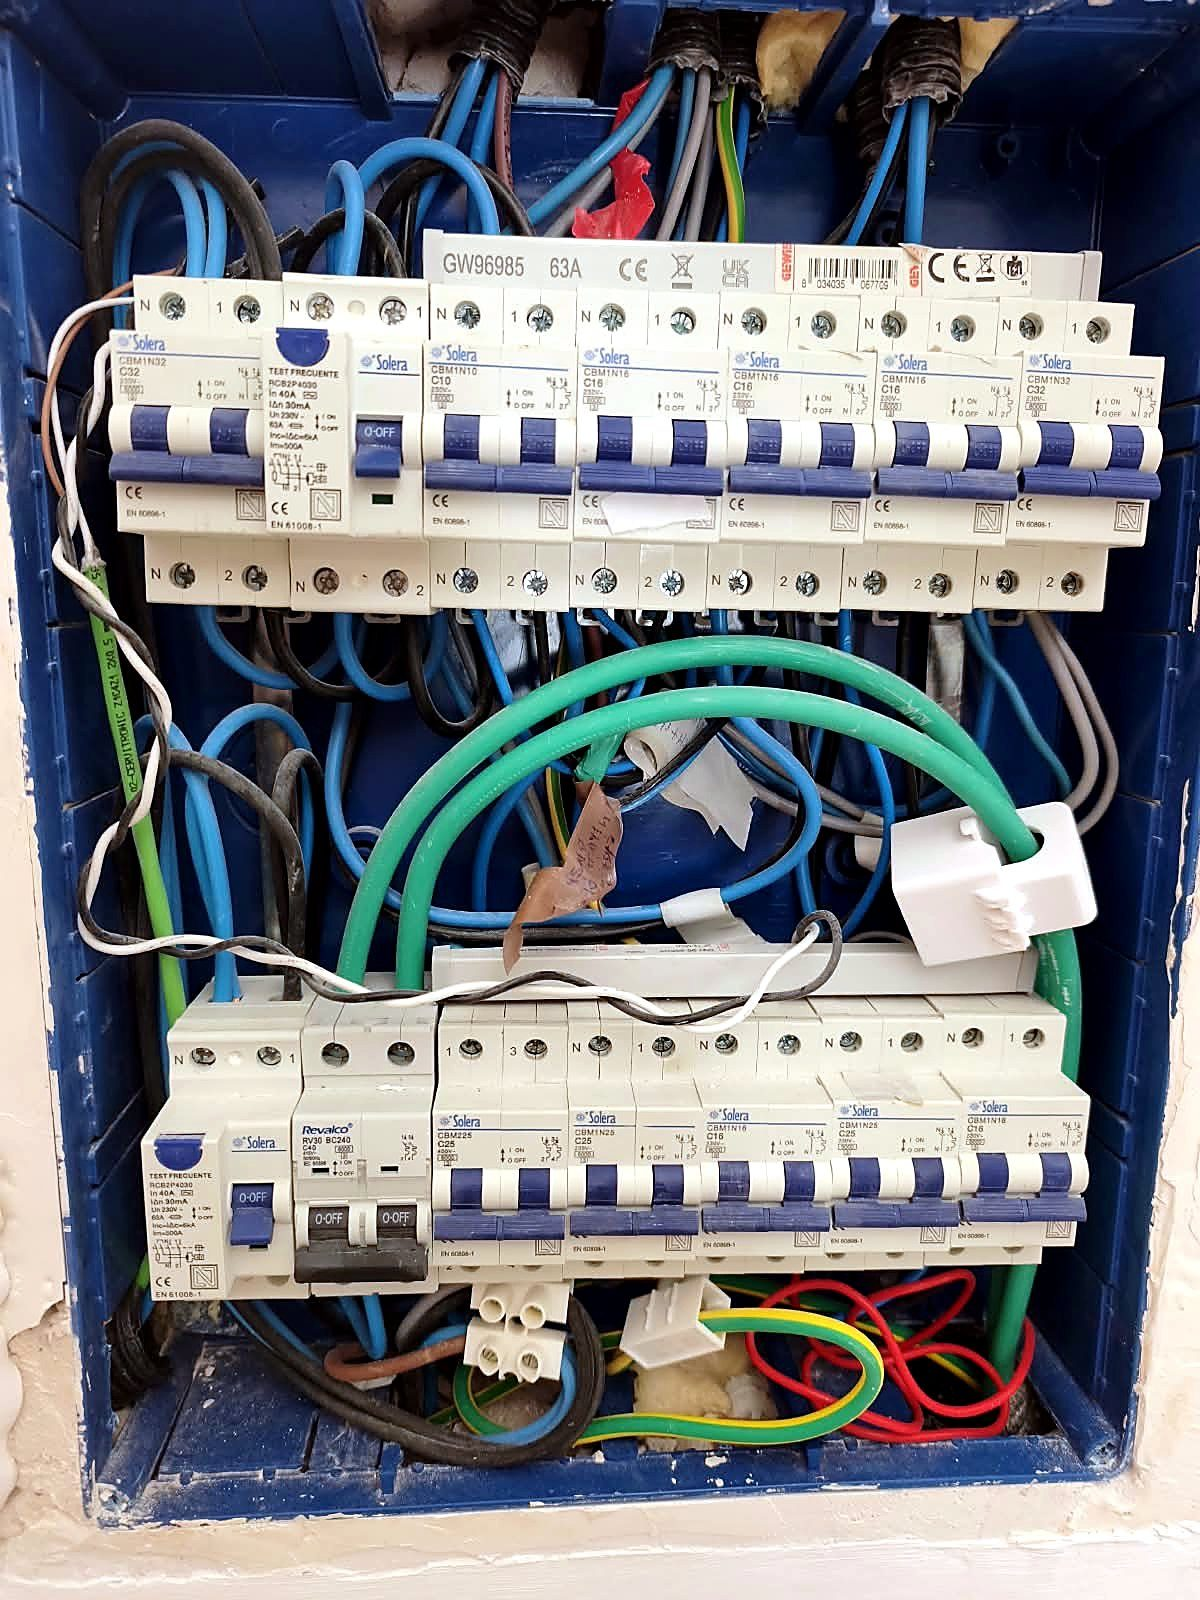
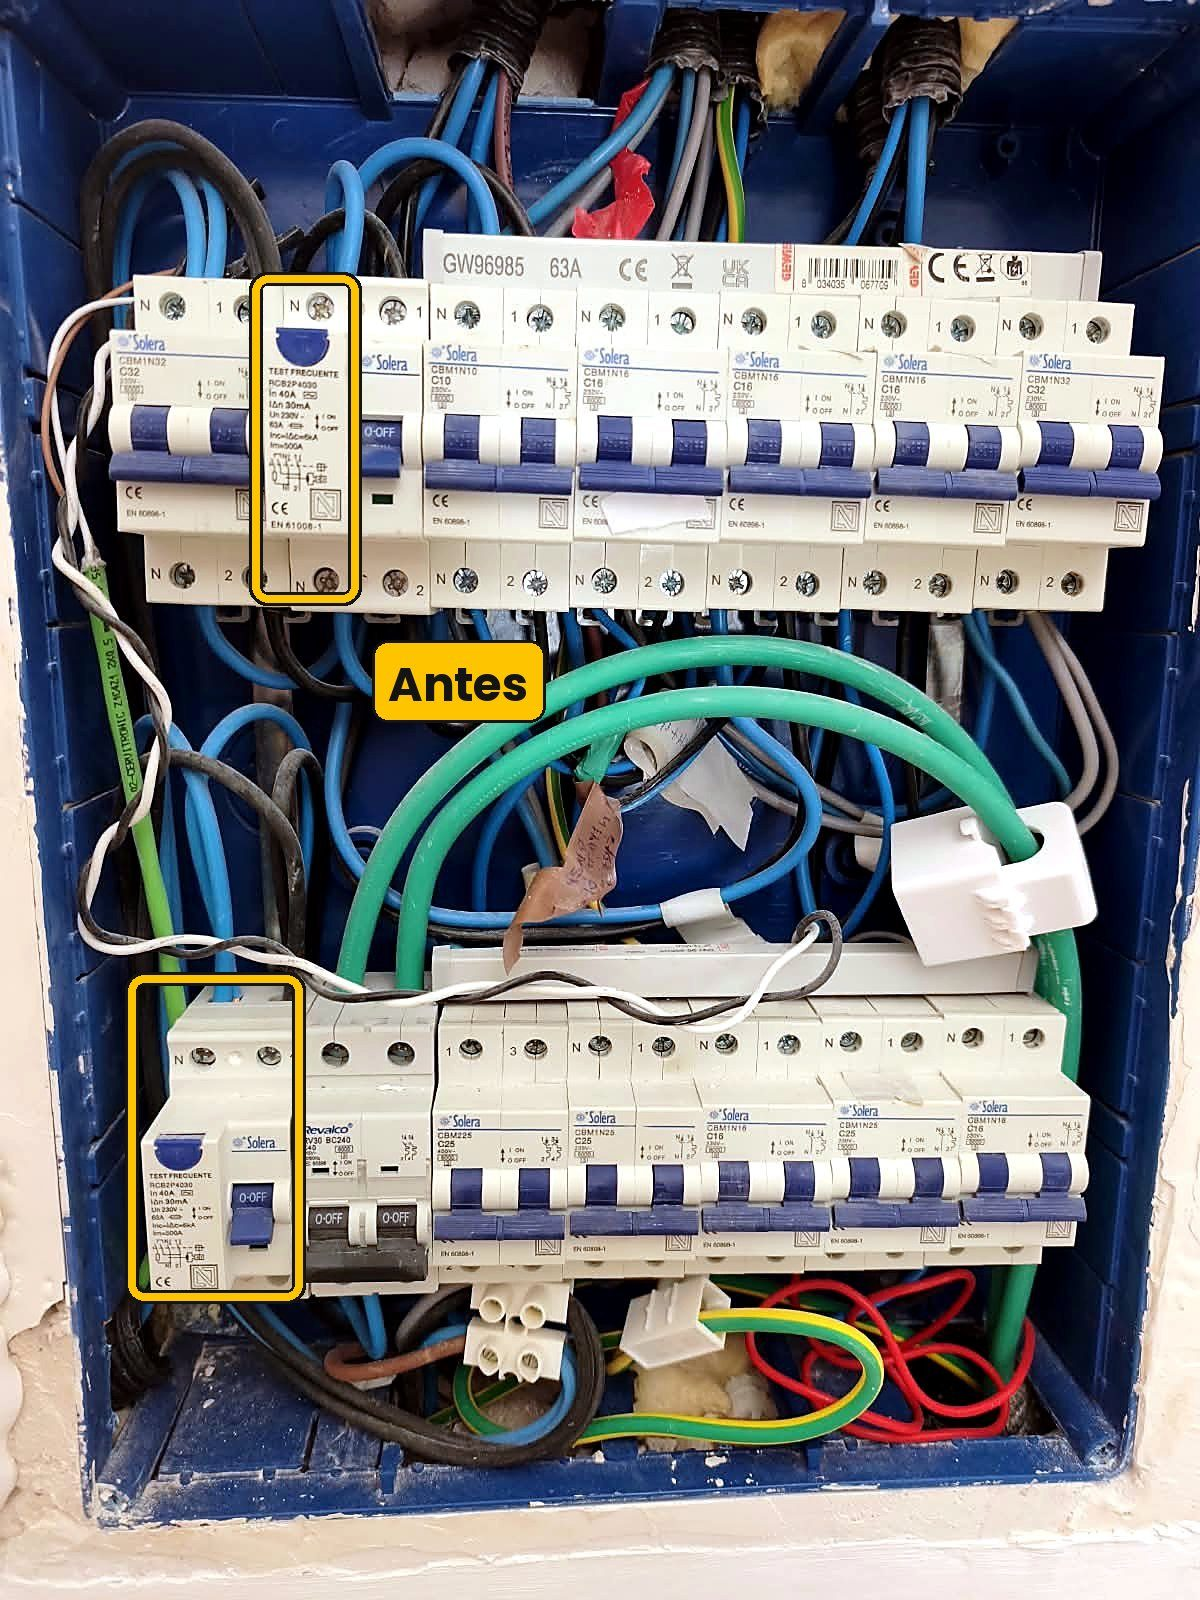
Web generada desde fuente/ (9a4f541)

Changed region(s): [[0.0925, 0.5938, 0.2775, 0.8125], [0.185, 0.1562, 0.3083, 0.4062], [0.3083, 0.375, 0.4625, 0.4688]]

diff --git a/site/trabajos/diferenciales-superinmunizados-oropesa/index.html b/site/trabajos/diferenciales-superinmunizados-oropesa/index.html
@@ -20,7 +20,7 @@
 <link rel="icon" href="/assets/favicon-48.png" type="image/png" sizes="48x48">
 <link rel="apple-touch-icon" href="/assets/apple-touch-icon.png">
 <link rel="preload" href="/assets/fonts/bricolage.woff2" as="font" type="font/woff2" crossorigin>
-<link rel="stylesheet" href="/assets/estilos.css?v=202610180026">
+<link rel="stylesheet" href="/assets/estilos.css?v=202610180034">
 <style>
 /* Menú con desplegables, menú móvil, accesos rápidos, barra inferior y «volver arriba» */
 header.site nav.main{gap:18px}
@@ -200,9 +200,9 @@ header.site nav.main .nav-tel{font-family:var(--f-mono);font-weight:500;color:va
 <h2>Qué hicimos</h2>
 <p>Revisamos el cuadro y sustituimos los dos diferenciales (40 A, 30 mA) por diferenciales <strong>superinmunizados</strong> de la misma intensidad y sensibilidad. El resto del cuadro se mantuvo.</p>
 <p><img src="/fotos/diferenciales-antes.jpg" alt="Cuadro antes del cambio, con los diferenciales estándar" loading="lazy"></p>
-<p><em>Antes: diferenciales estándar.</em></p>
+<p><em>Antes: los dos diferenciales estándar, marcados en amarillo.</em></p>
 <p><img src="/fotos/diferenciales-despues.jpg" alt="Cuadro después del cambio, con los diferenciales superinmunizados" loading="lazy"></p>
-<p><em>Después: diferenciales superinmunizados (clase SI).</em></p>
+<p><em>Después: los dos diferenciales superinmunizados (clase SI), en el mismo sitio.</em></p>
 <h2>Por qué un superinmunizado</h2>
 <p>Un diferencial normal puede saltar con las pequeñas fugas y perturbaciones que provocan los aparatos electrónicos y con los picos de tensión de las tormentas, aunque no haya ningún peligro. El superinmunizado protege igual a las personas (corta con 30 mA), pero tolera mejor esas perturbaciones y salta mucho menos sin motivo.</p>
 <p>Si con tormenta siguen los cortes, el siguiente paso es instalar protección contra sobretensiones en el cuadro. También conviene revisar la toma de tierra.</p><div class="cta-box"><div><p class="eyebrow" style="color:inherit;opacity:.7">¿Tienes un trabajo parecido?</p><h3 style="margin-top:6px">Calcula un precio orientativo en un minuto.</h3></div><a class="btn primary" href="/#presupuesto">Calcular presupuesto</a></div></article></div>
@@ -268,8 +268,8 @@ var sc=document.currentScript;sc.parentNode.insertBefore(d,sc);})();
   }
 })();
 </script>
-<script src="/assets/senoide.js?v=202610180026" defer></script>
-<script src="/assets/trabajos.js?v=202610180026" defer></script>
+<script src="/assets/senoide.js?v=202610180034" defer></script>
+<script src="/assets/trabajos.js?v=202610180034" defer></script>
 
 </body>
 </html>

diff --git a/site/404.html b/site/404.html
@@ -20,7 +20,7 @@
 <link rel="icon" href="/assets/favicon-48.png" type="image/png" sizes="48x48">
 <link rel="apple-touch-icon" href="/assets/apple-touch-icon.png">
 <link rel="preload" href="/assets/fonts/bricolage.woff2" as="font" type="font/woff2" crossorigin>
-<link rel="stylesheet" href="/assets/estilos.css?v=202610180026">
+<link rel="stylesheet" href="/assets/estilos.css?v=202610180034">
 <style>
 /* Menú con desplegables, menú móvil, accesos rápidos, barra inferior y «volver arriba» */
 header.site nav.main{gap:18px}
@@ -258,8 +258,8 @@ var sc=document.currentScript;sc.parentNode.insertBefore(d,sc);})();
   }
 })();
 </script>
-<script src="/assets/senoide.js?v=202610180026" defer></script>
-<script src="/assets/trabajos.js?v=202610180026" defer></script>
+<script src="/assets/senoide.js?v=202610180034" defer></script>
+<script src="/assets/trabajos.js?v=202610180034" defer></script>
 
 </body>
 </html>

diff --git a/site/aviso-legal/index.html b/site/aviso-legal/index.html
@@ -20,7 +20,7 @@
 <link rel="icon" href="/assets/favicon-48.png" type="image/png" sizes="48x48">
 <link rel="apple-touch-icon" href="/assets/apple-touch-icon.png">
 <link rel="preload" href="/assets/fonts/bricolage.woff2" as="font" type="font/woff2" crossorigin>
-<link rel="stylesheet" href="/assets/estilos.css?v=202610180026">
+<link rel="stylesheet" href="/assets/estilos.css?v=202610180034">
 <style>
 /* Menú con desplegables, menú móvil, accesos rápidos, barra inferior y «volver arriba» */
 header.site nav.main{gap:18px}
@@ -276,8 +276,8 @@ var sc=document.currentScript;sc.parentNode.insertBefore(d,sc);})();
   }
 })();
 </script>
-<script src="/assets/senoide.js?v=202610180026" defer></script>
-<script src="/assets/trabajos.js?v=202610180026" defer></script>
+<script src="/assets/senoide.js?v=202610180034" defer></script>
+<script src="/assets/trabajos.js?v=202610180034" defer></script>
 
 </body>
 </html>

diff --git a/site/condiciones-mantenimiento/index.html b/site/condiciones-mantenimiento/index.html
@@ -20,7 +20,7 @@
 <link rel="icon" href="/assets/favicon-48.png" type="image/png" sizes="48x48">
 <link rel="apple-touch-icon" href="/assets/apple-touch-icon.png">
 <link rel="preload" href="/assets/fonts/bricolage.woff2" as="font" type="font/woff2" crossorigin>
-<link rel="stylesheet" href="/assets/estilos.css?v=202610180026">
+<link rel="stylesheet" href="/assets/estilos.css?v=202610180034">
 <style>
 /* Menú con desplegables, menú móvil, accesos rápidos, barra inferior y «volver arriba» */
 header.site nav.main{gap:18px}
@@ -299,8 +299,8 @@ var sc=document.currentScript;sc.parentNode.insertBefore(d,sc);})();
   }
 })();
 </script>
-<script src="/assets/senoide.js?v=202610180026" defer></script>
-<script src="/assets/trabajos.js?v=202610180026" defer></script>
+<script src="/assets/senoide.js?v=202610180034" defer></script>
+<script src="/assets/trabajos.js?v=202610180034" defer></script>
 
 </body>
 </html>

diff --git a/site/consejos/casa-de-verano-revision-antes-de-abrir/index.html b/site/consejos/casa-de-verano-revision-antes-de-abrir/index.html
@@ -20,7 +20,7 @@
 <link rel="icon" href="/assets/favicon-48.png" type="image/png" sizes="48x48">
 <link rel="apple-touch-icon" href="/assets/apple-touch-icon.png">
 <link rel="preload" href="/assets/fonts/bricolage.woff2" as="font" type="font/woff2" crossorigin>
-<link rel="stylesheet" href="/assets/estilos.css?v=202610180026">
+<link rel="stylesheet" href="/assets/estilos.css?v=202610180034">
 <style>
 /* Menú con desplegables, menú móvil, accesos rápidos, barra inferior y «volver arriba» */
 header.site nav.main{gap:18px}
@@ -274,8 +274,8 @@ var sc=document.currentScript;sc.parentNode.insertBefore(d,sc);})();
   }
 })();
 </script>
-<script src="/assets/senoide.js?v=202610180026" defer></script>
-<script src="/assets/trabajos.js?v=202610180026" defer></script>
+<script src="/assets/senoide.js?v=202610180034" defer></script>
+<script src="/assets/trabajos.js?v=202610180034" defer></script>
 
 </body>
 </html>

diff --git a/site/consejos/index.html b/site/consejos/index.html
@@ -20,7 +20,7 @@
 <link rel="icon" href="/assets/favicon-48.png" type="image/png" sizes="48x48">
 <link rel="apple-touch-icon" href="/assets/apple-touch-icon.png">
 <link rel="preload" href="/assets/fonts/bricolage.woff2" as="font" type="font/woff2" crossorigin>
-<link rel="stylesheet" href="/assets/estilos.css?v=202610180026">
+<link rel="stylesheet" href="/assets/estilos.css?v=202610180034">
 <style>
 /* Menú con desplegables, menú móvil, accesos rápidos, barra inferior y «volver arriba» */
 header.site nav.main{gap:18px}
@@ -258,8 +258,8 @@ var sc=document.currentScript;sc.parentNode.insertBefore(d,sc);})();
   }
 })();
 </script>
-<script src="/assets/senoide.js?v=202610180026" defer></script>
-<script src="/assets/trabajos.js?v=202610180026" defer></script>
+<script src="/assets/senoide.js?v=202610180034" defer></script>
+<script src="/assets/trabajos.js?v=202610180034" defer></script>
 
 </body>
 </html>

diff --git a/site/consejos/punto-de-recarga-garaje-comunitario/index.html b/site/consejos/punto-de-recarga-garaje-comunitario/index.html
@@ -20,7 +20,7 @@
 <link rel="icon" href="/assets/favicon-48.png" type="image/png" sizes="48x48">
 <link rel="apple-touch-icon" href="/assets/apple-touch-icon.png">
 <link rel="preload" href="/assets/fonts/bricolage.woff2" as="font" type="font/woff2" crossorigin>
-<link rel="stylesheet" href="/assets/estilos.css?v=202610180026">
+<link rel="stylesheet" href="/assets/estilos.css?v=202610180034">
 <style>
 /* Menú con desplegables, menú móvil, accesos rápidos, barra inferior y «volver arriba» */
 header.site nav.main{gap:18px}
@@ -275,8 +275,8 @@ var sc=document.currentScript;sc.parentNode.insertBefore(d,sc);})();
   }
 })();
 </script>
-<script src="/assets/senoide.js?v=202610180026" defer></script>
-<script src="/assets/trabajos.js?v=202610180026" defer></script>
+<script src="/assets/senoide.js?v=202610180034" defer></script>
+<script src="/assets/trabajos.js?v=202610180034" defer></script>
 
 </body>
 </html>

diff --git a/site/consejos/salta-el-diferencial-que-hacer/index.html b/site/consejos/salta-el-diferencial-que-hacer/index.html
@@ -20,7 +20,7 @@
 <link rel="icon" href="/assets/favicon-48.png" type="image/png" sizes="48x48">
 <link rel="apple-touch-icon" href="/assets/apple-touch-icon.png">
 <link rel="preload" href="/assets/fonts/bricolage.woff2" as="font" type="font/woff2" crossorigin>
-<link rel="stylesheet" href="/assets/estilos.css?v=202610180026">
+<link rel="stylesheet" href="/assets/estilos.css?v=202610180034">
 <style>
 /* Menú con desplegables, menú móvil, accesos rápidos, barra inferior y «volver arriba» */
 header.site nav.main{gap:18px}
@@ -275,8 +275,8 @@ var sc=document.currentScript;sc.parentNode.insertBefore(d,sc);})();
   }
 })();
 </script>
-<script src="/assets/senoide.js?v=202610180026" defer></script>
-<script src="/assets/trabajos.js?v=202610180026" defer></script>
+<script src="/assets/senoide.js?v=202610180034" defer></script>
+<script src="/assets/trabajos.js?v=202610180034" defer></script>
 
 </body>
 </html>

diff --git a/site/cookies/index.html b/site/cookies/index.html
@@ -20,7 +20,7 @@
 <link rel="icon" href="/assets/favicon-48.png" type="image/png" sizes="48x48">
 <link rel="apple-touch-icon" href="/assets/apple-touch-icon.png">
 <link rel="preload" href="/assets/fonts/bricolage.woff2" as="font" type="font/woff2" crossorigin>
-<link rel="stylesheet" href="/assets/estilos.css?v=202610180026">
+<link rel="stylesheet" href="/assets/estilos.css?v=202610180034">
 <style>
 /* Menú con desplegables, menú móvil, accesos rápidos, barra inferior y «volver arriba» */
 header.site nav.main{gap:18px}
@@ -262,8 +262,8 @@ var sc=document.currentScript;sc.parentNode.insertBefore(d,sc);})();
   }
 })();
 </script>
-<script src="/assets/senoide.js?v=202610180026" defer></script>
-<script src="/assets/trabajos.js?v=202610180026" defer></script>
+<script src="/assets/senoide.js?v=202610180034" defer></script>
+<script src="/assets/trabajos.js?v=202610180034" defer></script>
 
 </body>
 </html>

diff --git a/site/index.html b/site/index.html
@@ -20,7 +20,7 @@
 <link rel="icon" href="/assets/favicon-48.png" type="image/png" sizes="48x48">
 <link rel="apple-touch-icon" href="/assets/apple-touch-icon.png">
 <link rel="preload" href="/assets/fonts/bricolage.woff2" as="font" type="font/woff2" crossorigin>
-<link rel="stylesheet" href="/assets/estilos.css?v=202610180026">
+<link rel="stylesheet" href="/assets/estilos.css?v=202610180034">
 <style>
 /* Menú con desplegables, menú móvil, accesos rápidos, barra inferior y «volver arriba» */
 header.site nav.main{gap:18px}
@@ -606,8 +606,8 @@ var sc=document.currentScript;sc.parentNode.insertBefore(d,sc);})();
   }
 })();
 </script>
-<script src="/assets/senoide.js?v=202610180026" defer></script>
-<script src="/assets/trabajos.js?v=202610180026" defer></script>
+<script src="/assets/senoide.js?v=202610180034" defer></script>
+<script src="/assets/trabajos.js?v=202610180034" defer></script>
 
 </body>
 </html>

diff --git a/site/mantenimiento/index.html b/site/mantenimiento/index.html
@@ -20,7 +20,7 @@
 <link rel="icon" href="/assets/favicon-48.png" type="image/png" sizes="48x48">
 <link rel="apple-touch-icon" href="/assets/apple-touch-icon.png">
 <link rel="preload" href="/assets/fonts/bricolage.woff2" as="font" type="font/woff2" crossorigin>
-<link rel="stylesheet" href="/assets/estilos.css?v=202610180026">
+<link rel="stylesheet" href="/assets/estilos.css?v=202610180034">
 <style>
 /* Menú con desplegables, menú móvil, accesos rápidos, barra inferior y «volver arriba» */
 header.site nav.main{gap:18px}
@@ -259,8 +259,8 @@ var sc=document.currentScript;sc.parentNode.insertBefore(d,sc);})();
   }
 })();
 </script>
-<script src="/assets/senoide.js?v=202610180026" defer></script>
-<script src="/assets/trabajos.js?v=202610180026" defer></script>
+<script src="/assets/senoide.js?v=202610180034" defer></script>
+<script src="/assets/trabajos.js?v=202610180034" defer></script>
 
 </body>
 </html>

diff --git a/site/noticias/index.html b/site/noticias/index.html
@@ -20,7 +20,7 @@
 <link rel="icon" href="/assets/favicon-48.png" type="image/png" sizes="48x48">
 <link rel="apple-touch-icon" href="/assets/apple-touch-icon.png">
 <link rel="preload" href="/assets/fonts/bricolage.woff2" as="font" type="font/woff2" crossorigin>
-<link rel="stylesheet" href="/assets/estilos.css?v=202610180026">
+<link rel="stylesheet" href="/assets/estilos.css?v=202610180034">
 <style>
 /* Menú con desplegables, menú móvil, accesos rápidos, barra inferior y «volver arriba» */
 header.site nav.main{gap:18px}
@@ -258,8 +258,8 @@ var sc=document.currentScript;sc.parentNode.insertBefore(d,sc);})();
   }
 })();
 </script>
-<script src="/assets/senoide.js?v=202610180026" defer></script>
-<script src="/assets/trabajos.js?v=202610180026" defer></script>
+<script src="/assets/senoide.js?v=202610180034" defer></script>
+<script src="/assets/trabajos.js?v=202610180034" defer></script>
 
 </body>
 </html>
